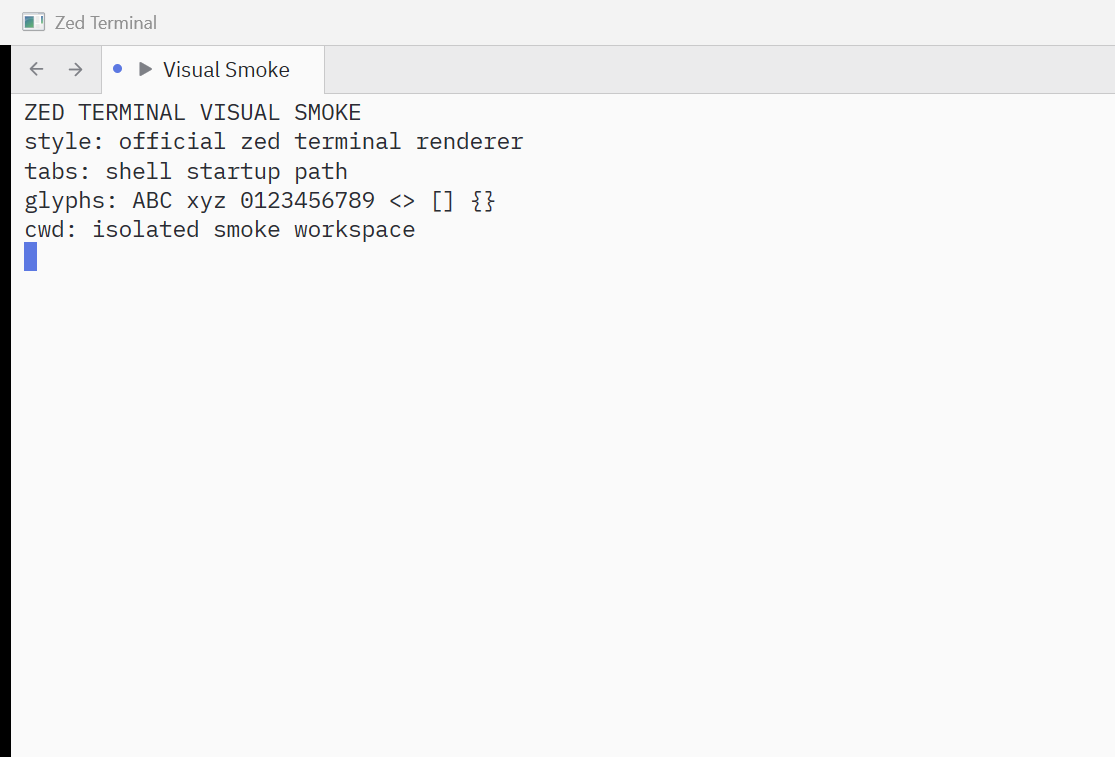
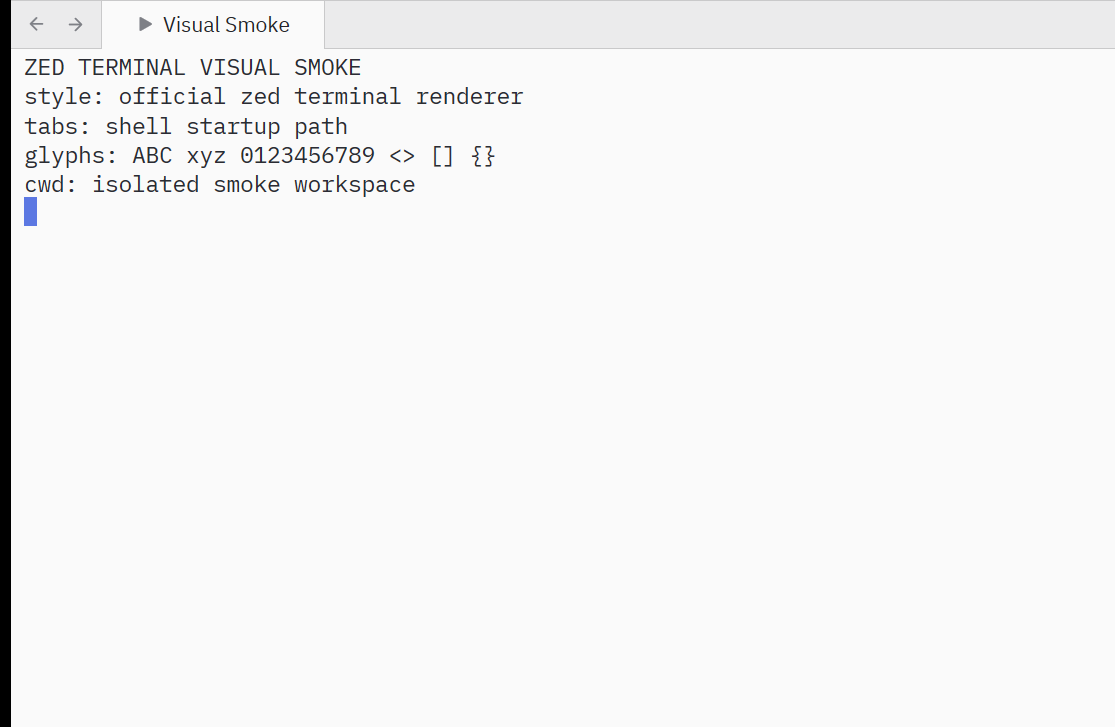
Align zed terminal visual baselines with client chrome

Changed region(s): [[0.0, 0.0, 0.4879, 0.3631]]

diff --git a/docs/0.MEMORY.md b/docs/0.MEMORY.md
@@ -388,7 +388,7 @@ Skipping these steps breaks font metrics and theme colors, which makes the stand
     - `-BaselineImage <png>` compares the captured stable client-content crop against the same crop from the baseline image, writes `zed-terminal-visual-smoke-diff.png`, and fails when the different-pixel ratio or average channel delta exceeds the configured thresholds.
     - Baseline comparison requires matching screenshot dimensions and reports the baseline file, diff file, pixel counts, different-pixel ratio, average channel delta, max channel delta, pixel tolerance, and thresholds.
   - The default smoke probe text is intentionally stable and avoids run-specific paths so pixel baseline comparisons remain meaningful.
-  - The repository carries trusted Windows baselines for default and startup split-pane layouts at `crates/zed_terminal/test_fixtures/visual/zed-terminal-default-windows.png` and `crates/zed_terminal/test_fixtures/visual/zed-terminal-split-windows.png`; update policy and thresholds are documented in `docs/2.VISUAL_BASELINE.md`.
+  - The repository carries trusted Windows baselines for default and startup split-pane layouts at `crates/zed_terminal/test_fixtures/visual/zed-terminal-default-windows.png` and `crates/zed_terminal/test_fixtures/visual/zed-terminal-split-windows.png`; these baselines represent the current standalone product shell with GPUI client-side decorations and no native Windows titlebar. Update policy and thresholds are documented in `docs/2.VISUAL_BASELINE.md`.
 - Package script:
   - `script/zed-terminal-package.ps1`
   - Builds `zed-terminal` by default in release mode, or packages an existing binary with `-Binary <path> -SkipBuild`.
@@ -777,7 +777,7 @@ When manually checking the app on Windows, stop any running `zed-terminal.exe` b
 - The visual smoke script supports optional startup split verification. Use `-VerifySplitPane` to write an isolated temporary `terminal.json` with one right-side split pane, run a second deterministic PowerShell probe inside that split, wait for a split readiness marker, and then capture the same real app window. This covers split-pane startup creation, terminal task spawning, and split rendering without changing the default smoke behavior.
 - The visual smoke script supports optional baseline workflows. Use `-UpdateBaselineImage <png>` to materialize a captured full-window baseline from a trusted run, and use `-BaselineImage <png>` to compare a later run's stable client-content crop against the same crop from that baseline. Baseline compare mode writes a diff PNG in the run directory and fails when `-MaxBaselineDifferentPixelRatio` or `-MaxBaselineAverageChannelDelta` is exceeded after applying `-BaselinePixelTolerance`.
 - The shortcut visual smoke state probe verifies product hierarchy and shortcut behavior after each simulated user step: outer pane count must stay at `1`, `ctrl-shift-t` must increase the outer tab count, `alt-shift-plus` / `alt-shift-minus` / `alt-shift-d` must increase only the active tab's internal pane count, `ctrl-shift-p` must open the command palette, `escape` must close it, and `ctrl-shift-w` must close only the active internal pane.
-- The default release gate uses `crates/zed_terminal/test_fixtures/visual/zed-terminal-default-windows.png` and `crates/zed_terminal/test_fixtures/visual/zed-terminal-split-windows.png` as trusted Windows visual baselines and records baseline paths/thresholds in the release summary. Baseline update rules are documented in `docs/2.VISUAL_BASELINE.md`.
+- The default release gate uses `crates/zed_terminal/test_fixtures/visual/zed-terminal-default-windows.png` and `crates/zed_terminal/test_fixtures/visual/zed-terminal-split-windows.png` as trusted Windows visual baselines and records baseline paths/thresholds in the release summary. The current baselines were refreshed from the release binary after the standalone shell moved to GPUI client-side decorations, so they intentionally include the Zed-style client titlebar and no native Windows titlebar. Baseline update rules are documented in `docs/2.VISUAL_BASELINE.md`.
 - The release gate runs the `zed_terminal` check step with `RUSTFLAGS=-D warnings`, so unused or deprecated code cannot pass release validation as a warning-only issue. Keep this scoped to the `zed_terminal` check step and restore the caller's prior `RUSTFLAGS` afterward.
 - The release gate asserts that keymap schema, keymap action catalog, and action description discovery expose shortcut/profile/settings/actions including `zed_terminal::OpenStartupToolsPicker`, `zed_terminal::OpenSupportToolsPicker`, `zed_terminal::OpenSupportBundleManifestFile`, `zed_terminal::OpenSettingsToolsPicker`, `zed_terminal::OpenSettingsSchemaFile`, `zed_terminal::OpenKeymapToolsPicker`, `zed_terminal::OpenStartupProfileConfig`, `zed_terminal::CopyStartupProfile`, `zed_terminal::RemoveStartupProfile`, `zed_terminal::ExportStartupProfile`, `zed_terminal::ImportStartupProfile`, `zed_terminal::OpenStartupProfileExportsDirectory`, `zed_terminal::OpenStartupProfileMutationBackupsDirectory`, `zed_terminal::OpenStartupProfileMutationBackupsReport`, `zed_terminal::RestoreLatestStartupProfileMutationBackup`, `zed_terminal::RestoreStartupProfileMutationBackup`, `zed_terminal::OpenStartupProfilePicker`, `zed_terminal::OpenStartupProfileManagementReport`, `zed_terminal::OpenStartupProfileSlotsReport`, `zed_terminal::OpenConfigInitializationReport`, `zed_terminal::OpenConfigBundleBackupFile`, `zed_terminal::OpenConfigBundleBackupDirectory`, `zed_terminal::OpenConfigBundleBackupsDirectory`, `zed_terminal::OpenConfigBundleBackupsReport`, `zed_terminal::RestoreConfigBundle`, `zed_terminal::RestoreSettingsBackup`, `zed_terminal::RestoreStartupConfigBackup`, `zed_terminal::RestoreKeymapBackup`, `zed_terminal::OpenActiveKeymapConflictsReport`, `zed_terminal::OpenPathsReport`, and `zed_terminal::OpenVersionInfoReport`, so shortcut/settings/report UI entry points cannot silently disappear from packaged builds.
 - `--print-startup-layout` prints the resolved `LaunchOptions` startup tabs without installing custom Zed paths, starting GPUI, initializing terminal UI, or opening a terminal window.
@@ -993,7 +993,7 @@ When manually checking the app on Windows, stop any running `zed-terminal.exe` b
 ## Known Risks
 
 - The app still depends on a large subset of Zed workspace initialization; future work should reduce accidental editor-only surface without breaking terminal behavior.
-- Visual smoke coverage now catches blank-window/startup screenshot regressions and enforces the committed default Windows baseline in the standard release gate. Remaining visual risk is cross-machine rendering drift; update `docs/2.VISUAL_BASELINE.md` if the baseline policy changes.
+- Visual smoke coverage now catches blank-window/startup screenshot regressions and enforces the committed default/split Windows baselines for the current client-side decorated shell in the standard release gate. Remaining visual risk is cross-machine rendering drift; update `docs/2.VISUAL_BASELINE.md` if the baseline policy changes.
 
 ## Next Priorities
 

diff --git a/docs/1.RELEASE.md b/docs/1.RELEASE.md
@@ -2,6 +2,29 @@
 
 This file records major standalone `zed_terminal` milestones and release-capable checkpoints.
 
+## 2026-06-08 - Visual Baseline Chrome Alignment
+
+Status: visual-baseline-chrome-alignment checkpoint
+
+- Refreshed the trusted default and startup split-pane Windows visual baselines after the product shell moved to GPUI client-side decorations and removed the native Windows titlebar.
+- Kept the baseline images as full-window screenshots for human review, while release comparison still measures the stable client-content crop from each fresh smoke run.
+- Verified the refreshed baselines against the release binary: default and split-pane visual smoke both compare at `baseline_different_pixel_ratio = 0` and `baseline_average_channel_delta = 0`.
+- Reconfirmed debug-build compatibility with the refreshed baselines: default visual smoke compares at `0` diff, and split-pane visual smoke stays well under the release thresholds.
+- This is a release gate asset/policy alignment only; no terminal renderer, PTY setup, input dispatch, shell/task creation, tab/pane ownership, shortcut defaults, or product styling code was changed.
+
+Verification:
+
+- `powershell -NoProfile -ExecutionPolicy Bypass -File script\zed-terminal-visual-smoke.ps1 -Binary target\release\zed-terminal.exe -BaselineImage crates\zed_terminal\test_fixtures\visual\zed-terminal-default-windows.png -StartupTimeoutSeconds 30 -CaptureDelaySeconds 1 -OutputDir target\zed-terminal-baseline-probe-default` failed against the old baseline with `different_pixel_ratio = 0.127753707285622` and `average_channel_delta = 5.28048527831643`.
+- `powershell -NoProfile -ExecutionPolicy Bypass -File script\zed-terminal-visual-smoke.ps1 -Binary target\release\zed-terminal.exe -VerifySplitPane -BaselineImage crates\zed_terminal\test_fixtures\visual\zed-terminal-split-windows.png -StartupTimeoutSeconds 30 -CaptureDelaySeconds 1 -OutputDir target\zed-terminal-baseline-probe-split` failed against the old baseline with `different_pixel_ratio = 0.127057382333978` and `average_channel_delta = 6.21172576832304`.
+- `powershell -NoProfile -ExecutionPolicy Bypass -File script\zed-terminal-visual-smoke.ps1 -Binary target\release\zed-terminal.exe -UpdateBaselineImage crates\zed_terminal\test_fixtures\visual\zed-terminal-default-windows.png -StartupTimeoutSeconds 30 -CaptureDelaySeconds 1 -OutputDir target\zed-terminal-baseline-update-default`
+- `powershell -NoProfile -ExecutionPolicy Bypass -File script\zed-terminal-visual-smoke.ps1 -Binary target\release\zed-terminal.exe -VerifySplitPane -UpdateBaselineImage crates\zed_terminal\test_fixtures\visual\zed-terminal-split-windows.png -StartupTimeoutSeconds 30 -CaptureDelaySeconds 1 -OutputDir target\zed-terminal-baseline-update-split`
+- Visual inspection of `crates\zed_terminal\test_fixtures\visual\zed-terminal-default-windows.png` and `crates\zed_terminal\test_fixtures\visual\zed-terminal-split-windows.png` confirmed the current Zed client-side titlebar, no native Windows titlebar, stable smoke text, cursor, and split-pane divider.
+- `powershell -NoProfile -ExecutionPolicy Bypass -File script\zed-terminal-visual-smoke.ps1 -Binary target\release\zed-terminal.exe -BaselineImage crates\zed_terminal\test_fixtures\visual\zed-terminal-default-windows.png -StartupTimeoutSeconds 30 -CaptureDelaySeconds 1 -OutputDir target\zed-terminal-baseline-verify-release-default`
+- `powershell -NoProfile -ExecutionPolicy Bypass -File script\zed-terminal-visual-smoke.ps1 -Binary target\release\zed-terminal.exe -VerifySplitPane -BaselineImage crates\zed_terminal\test_fixtures\visual\zed-terminal-split-windows.png -StartupTimeoutSeconds 30 -CaptureDelaySeconds 1 -OutputDir target\zed-terminal-baseline-verify-release-split`
+- `powershell -NoProfile -ExecutionPolicy Bypass -File script\zed-terminal-visual-smoke.ps1 -Binary target\debug\zed-terminal.exe -BaselineImage crates\zed_terminal\test_fixtures\visual\zed-terminal-default-windows.png -StartupTimeoutSeconds 30 -CaptureDelaySeconds 1 -OutputDir target\zed-terminal-baseline-verify-debug-default`
+- `powershell -NoProfile -ExecutionPolicy Bypass -File script\zed-terminal-visual-smoke.ps1 -Binary target\debug\zed-terminal.exe -VerifySplitPane -BaselineImage crates\zed_terminal\test_fixtures\visual\zed-terminal-split-windows.png -StartupTimeoutSeconds 30 -CaptureDelaySeconds 1 -OutputDir target\zed-terminal-baseline-verify-debug-split`
+- `powershell -NoProfile -ExecutionPolicy Bypass -File script\zed-terminal-release-check.ps1 -SkipCargo -SkipRustTests -SkipCliDiagnostics -SkipPackage -SkipShortcutVisualSmoke -Binary target\release\zed-terminal.exe -PackageBinary target\release\zed-terminal.exe -StartupTimeoutSeconds 30 -CaptureDelaySeconds 1 -OutputDir target\zed-terminal-baseline-release-check`
+
 ## 2026-06-08 - Productization Shell E2E Recheck
 
 Status: productization-shell-e2e-recheck checkpoint

diff --git a/docs/2.VISUAL_BASELINE.md b/docs/2.VISUAL_BASELINE.md
@@ -9,9 +9,11 @@ This document defines the trusted visual baseline policy for the standalone
   - `crates/zed_terminal/test_fixtures/visual/zed-terminal-default-windows.png`
 - Startup split-pane Windows baseline:
   - `crates/zed_terminal/test_fixtures/visual/zed-terminal-split-windows.png`
-- Baselines are captured from the real `target\debug\zed-terminal.exe` desktop app by
-  `script\zed-terminal-visual-smoke.ps1`. The split-pane baseline is captured with
-  `-VerifySplitPane`.
+- Baselines are captured from a trusted built `zed-terminal.exe` desktop app by
+  `script\zed-terminal-visual-smoke.ps1`. Prefer the release binary when refreshing
+  release-gate assets. The split-pane baseline is captured with `-VerifySplitPane`.
+- The current Windows baselines represent the standalone product shell with GPUI
+  client-side decorations and no native Windows titlebar.
 - Baselines remain full-window screenshots for review, and each smoke run also writes a
   full-client screenshot for diagnostics.
 - Release comparison crops the stable client content area from both the fresh screenshot
@@ -42,17 +44,22 @@ This document defines the trusted visual baseline policy for the standalone
 
 Update the baseline only after a deliberate visual review confirms the change is intended.
 
-1. Build `zed-terminal`.
+1. Build `zed-terminal`, preferably the release binary:
+
+```powershell
+cargo +stable build --release -p zed_terminal --bin zed-terminal
+```
+
 2. Run:
 
 ```powershell
-powershell -NoProfile -ExecutionPolicy Bypass -File script\zed-terminal-visual-smoke.ps1 -UpdateBaselineImage crates\zed_terminal\test_fixtures\visual\zed-terminal-default-windows.png
+powershell -NoProfile -ExecutionPolicy Bypass -File script\zed-terminal-visual-smoke.ps1 -Binary target\release\zed-terminal.exe -UpdateBaselineImage crates\zed_terminal\test_fixtures\visual\zed-terminal-default-windows.png
 ```
 
 3. To update the split-pane baseline, run:
 
 ```powershell
-powershell -NoProfile -ExecutionPolicy Bypass -File script\zed-terminal-visual-smoke.ps1 -VerifySplitPane -UpdateBaselineImage crates\zed_terminal\test_fixtures\visual\zed-terminal-split-windows.png
+powershell -NoProfile -ExecutionPolicy Bypass -File script\zed-terminal-visual-smoke.ps1 -Binary target\release\zed-terminal.exe -VerifySplitPane -UpdateBaselineImage crates\zed_terminal\test_fixtures\visual\zed-terminal-split-windows.png
 ```
 
 4. Visually inspect each updated PNG.
